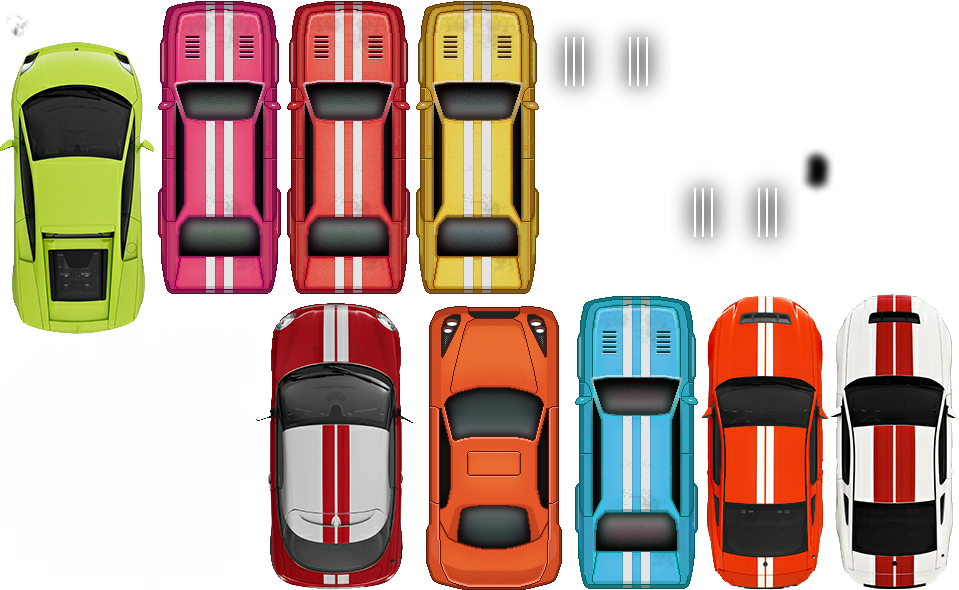
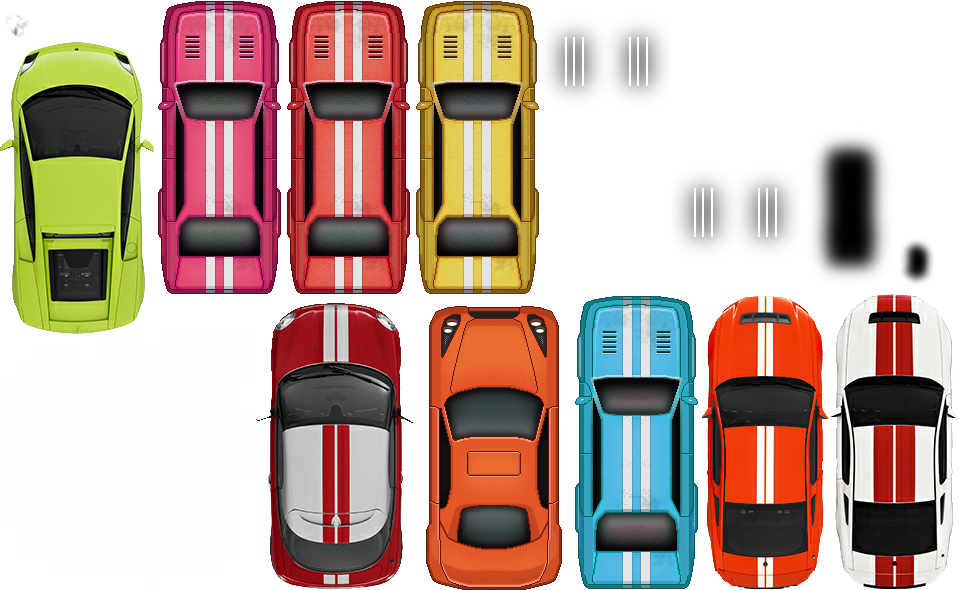
[update] new car ambient occlusion [update] add zoom blur based on speed [update] do not earn so much seconds

Changed region(s): [[0.8165, 0.2136, 0.9979, 0.4881]]

diff --git a/uracer-desktop/src/com/bitfire/uracer/game/actors/CarRenderer.java b/uracer-desktop/src/com/bitfire/uracer/game/actors/CarRenderer.java
@@ -39,7 +39,7 @@ public final class CarRenderer {
 		// ambient occlusion
 		ambientOcclusion.setRegion(Art.carAmbientOcclusion);
 		ambientOcclusion.setSize(facet.getWidth(), facet.getHeight());
-		ambientOcclusion.setScale(2f, 2.3f);
+		ambientOcclusion.setScale(1.9f, 1.52f);
 		ambientOcclusion.setOrigin(ambientOcclusion.getWidth() / 2, ambientOcclusion.getHeight() / 2);
 
 		occlusionOffX = ambientOcclusion.getOriginX();
@@ -81,7 +81,7 @@ public final class CarRenderer {
 	public void renderShadows (SpriteBatch batch, EntityRenderState state) {
 		ambientOcclusion.setPosition(state.position.x - occlusionOffX, state.position.y - occlusionOffY);
 		ambientOcclusion.setRotation(state.orientation);
-		ambientOcclusion.draw(batch, 0.65f * alpha);
+		ambientOcclusion.draw(batch, 0.9f * alpha);
 	}
 
 	public void render (SpriteBatch batch, EntityRenderState state) {

diff --git a/uracer-desktop/src/com/bitfire/uracer/game/logic/post/animators/AggressiveCold.java b/uracer-desktop/src/com/bitfire/uracer/game/logic/post/animators/AggressiveCold.java
@@ -234,7 +234,7 @@ public final class AggressiveCold implements PostProcessingAnimator {
 		if (zoom != null && hasPlayer) {
 			// auto-disable zoom
 // float blurStrength = -0.1f * timeModFactor * currSpeedFactor;
-			float blurStrength = (-0.035f - 0.09f * currSpeedFactor - 0.07f * currDriftStrength) * timeModFactor;
+			float blurStrength = (-0.035f - 0.09f * currSpeedFactor) * timeModFactor - 0.035f * currDriftStrength;
 
 			boolean zoomEnabled = zoom.isEnabled();
 			boolean strengthIsZero = AMath.isZero(blurStrength);

diff --git a/uracer-desktop/src/com/bitfire/uracer/game/screens/GameScreen.java b/uracer-desktop/src/com/bitfire/uracer/game/screens/GameScreen.java
@@ -19,8 +19,8 @@ public class GameScreen extends Screen {
 		// simulate slowness
 		// try { Thread.sleep( 1000 ); } catch( InterruptedException e ) {}
 
-// String trackId = GameTracks.getTrackId("Long and fun");
-		String trackId = GameTracks.getTrackId("Simple");
+		String trackId = GameTracks.getTrackId("Long and fun");
+// String trackId = GameTracks.getTrackId("Simple");
 		if (trackId == null) {
 			Gdx.app.log("GameScreen", "The specified track could not be found");
 			System.exit(-1);

diff --git a/uracer-desktop/src/com/bitfire/uracer/game/logic/types/SinglePlayerLogic.java b/uracer-desktop/src/com/bitfire/uracer/game/logic/types/SinglePlayerLogic.java
@@ -350,8 +350,7 @@ public class SinglePlayerLogic extends CommonLogic {
 
 				// earn game seconds by drifting
 				if (playerCar.driftState.isDrifting) {
-					accuDriftSeconds.value += Config.Physics.PhysicsDt + Config.Physics.PhysicsDt * playerCar.driftState.driftStrength
-						* 1.5f;
+					accuDriftSeconds.value += Config.Physics.PhysicsDt + Config.Physics.PhysicsDt * playerCar.driftState.driftStrength;
 				}
 
 				// lose wall-clock seconds while in time dilation

diff --git a/uracer-desktop/src/com/bitfire/uracer/resources/Art.java b/uracer-desktop/src/com/bitfire/uracer/resources/Art.java
@@ -198,7 +198,7 @@ public final class Art {
 
 		skidMarksFront = cars.findRegion("skid-marks-front");
 		skidMarksRear = cars.findRegion("skid-marks-rear");
-		carAmbientOcclusion = cars.findRegion("car-ao");
+		carAmbientOcclusion = cars.findRegion("car-ao-new");
 
 		wrongWay = newTexture("data/base/wrong-way.png", false);
 		wrongWay.setFilter(TextureFilter.Linear, TextureFilter.Linear);
